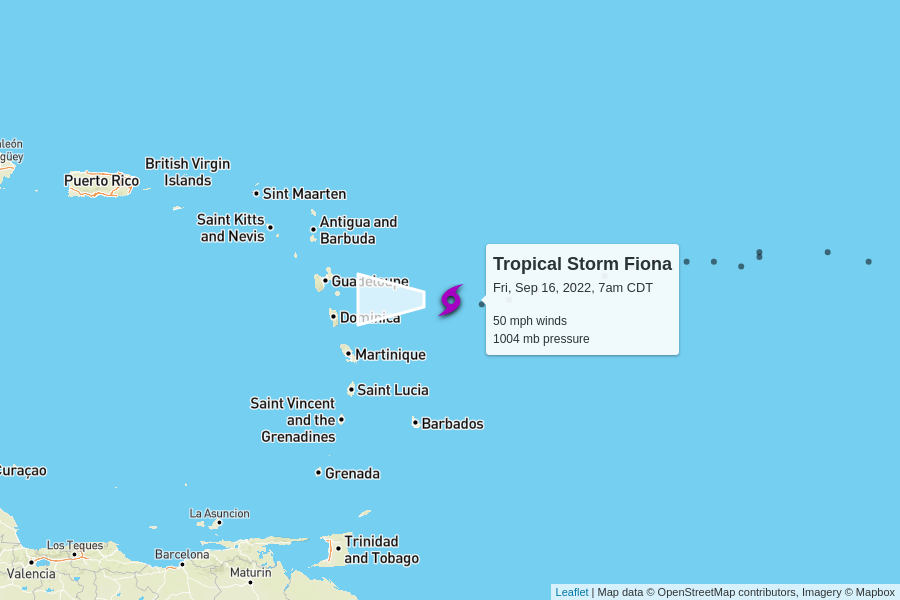
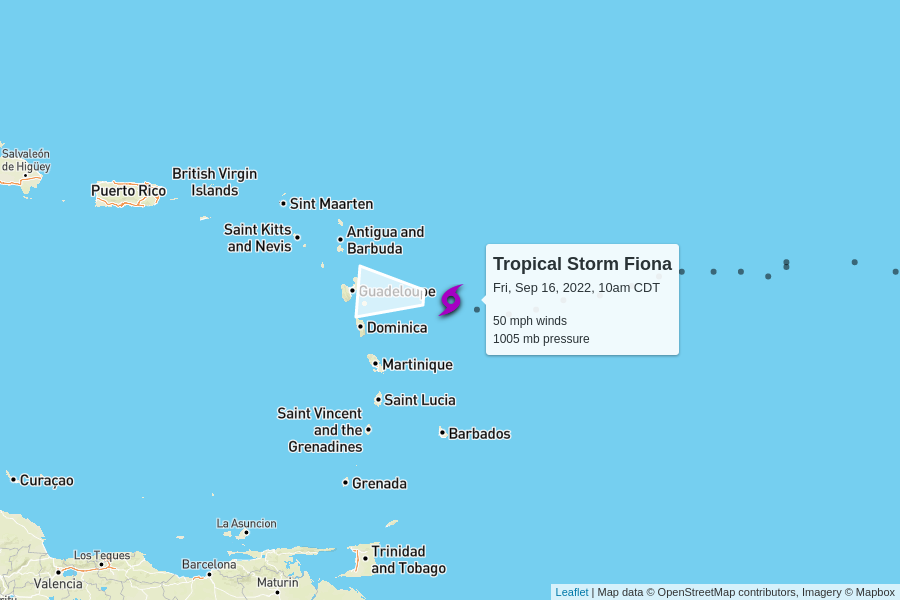
automatic update

diff --git a/docs/index.html b/docs/index.html
@@ -100,7 +100,7 @@
         <td colspan="6" class="storm category-0" >
           <h2>
             Tropical Storm Fiona
-            <p class="updated">last updated <span data-time>2022-09-16T12:00:00.000Z</span></p>
+            <p class="updated">last updated <span data-time>2022-09-16T15:00:00.000Z</span></p>
           </h2>
         </td>
       </tr>
@@ -116,11 +116,11 @@
       <tr>
         <td class="spacer"></td>
         <td>50 mph</td>
-        <td>1004 mb</td>
+        <td>1005 mb</td>
         <td>
-          15 mph to the west
+          14 mph to the west
           <br/>
-          <span style="display: inline-block; font-size: 1.5em; transform: rotate(270deg);">↑</span>
+          <span style="display: inline-block; font-size: 1.5em; transform: rotate(275deg);">↑</span>
         </td>
         <td><a href="https://raw.githubusercontent.com/mgwalker/atlantic-hurricanes/main/data/csv/AL072022.csv">AL072022.csv</a></td>
         <td><a href="https://www.nhc.noaa.gov/archive/2022/FIONA.shtml?">NHC advisories</a></td>
